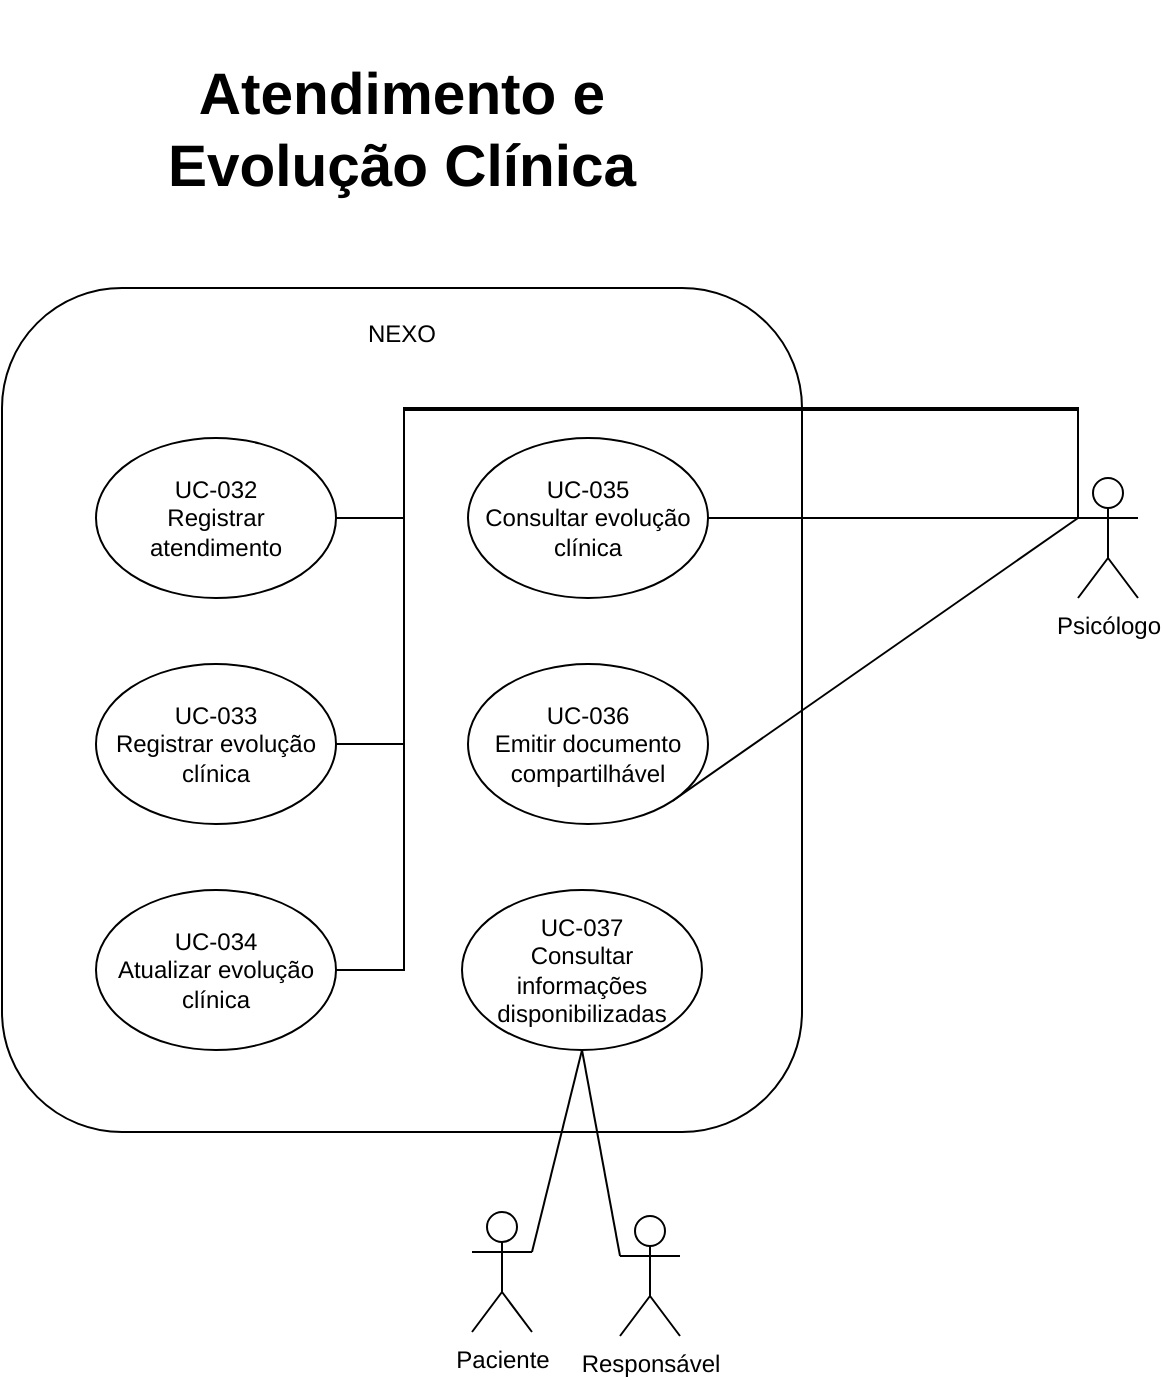
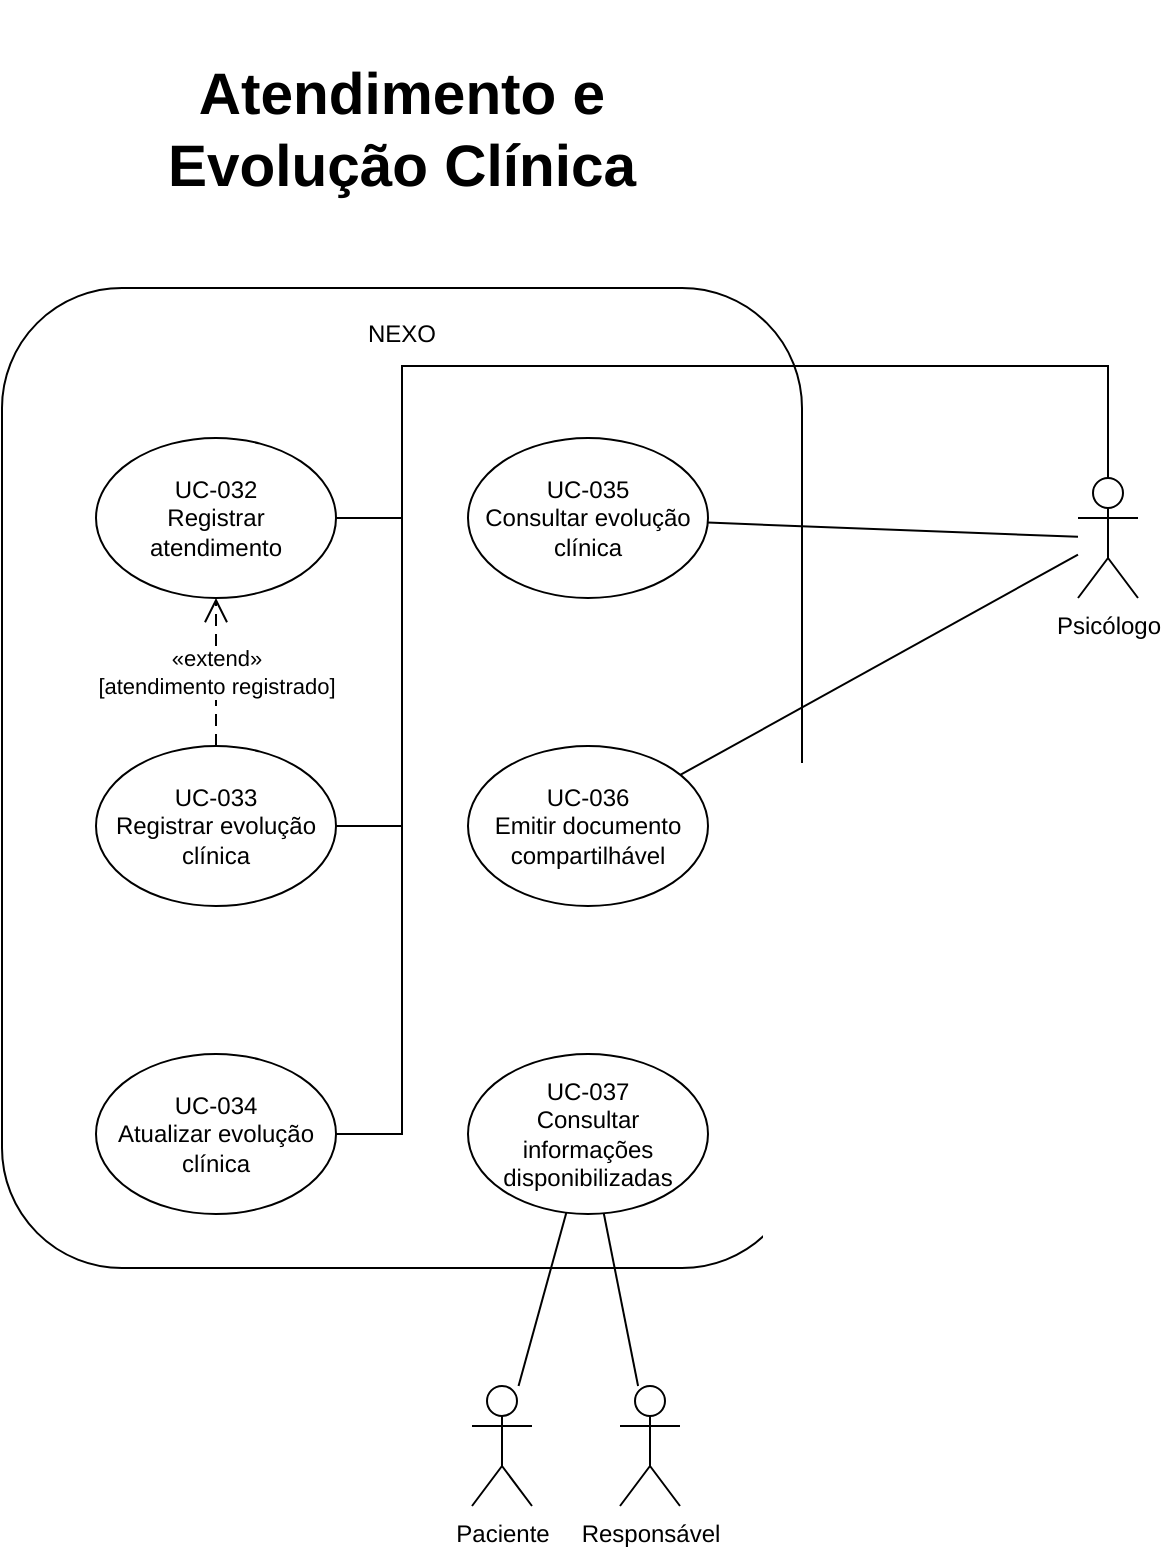
Atualiza diagramas de casos de uso e adiciona o módulo de Notificações
- Novos casos de uso UC-050 a UC-056 e o ator Agendador
- Relações «include» e «extend» nos diagramas 03, 05, 06 e 09
- Diagrama 11 (Notificações) e correção da imagem do diagrama 04
- README com o módulo 11 e a nova contagem de casos de uso

diff --git a/README.md b/README.md
@@ -17,8 +17,8 @@ nexo-modelagem-av3/
 └── diagramas/
     ├── contexto/                            # fronteira do sistema e atores externos
     │   └── diagrama-de-contexto.drawio      # arquivo editável
-    ├── casos-de-uso/                        # um diagrama por módulo (01 a 10)
-    │   └── diagramas-casos-de-uso.drawio    # arquivo editável com os 10 diagramas
+    ├── casos-de-uso/                        # um diagrama por módulo (01 a 11)
+    │   └── diagramas-casos-de-uso.drawio    # arquivo editável com os 11 diagramas
     ├── classes/                             # um diagrama de classes por área (01 a 09)
     │   └── diagramas-classes.drawio         # arquivo editável com os 9 diagramas
     └── objetos/                             # instâncias de um cenário (UC-027)
@@ -37,7 +37,7 @@ Os diagramas ficam exportados em `.png` para leitura rápida. Cada pasta tem um 
 
 ## 🧩 Módulos
 
-Os 49 casos de uso estão divididos em 10 módulos. Cada um tem um diagrama próprio:
+Os 56 casos de uso estão divididos em 11 módulos. Cada um tem um diagrama próprio. Os casos de uso automáticos (UC-050 a UC-054) são executados pelo ator **Agendador**, um processo da plataforma que roda em horários definidos.
 
 | # | Módulo | Imagem | Arquivo editável |
 |:-:|--------|:------:|:----------------:|
@@ -51,6 +51,7 @@ Os 49 casos de uso estão divididos em 10 módulos. Cada um tem um diagrama pró
 | 08 | Financeiro e Pagamentos | [ver](diagramas/casos-de-uso/08-financeiro-e-pagamentos.png) | [abrir](<https://viewer.diagrams.net/?lightbox=1&highlight=0000ff&layers=1&nav=1&title=diagramas-casos-de-uso.drawio&page-id=7p_f6k52_ZvSWfSv3xck#Uhttps%3A%2F%2Fraw.githubusercontent.com%2Fdevcaline%2Fnexo-modelagem-av3%2Fmain%2Fdiagramas%2Fcasos-de-uso%2Fdiagramas-casos-de-uso.drawio>) |
 | 09 | Lista de Espera e Encaixes | [ver](diagramas/casos-de-uso/09-lista-de-espera-e-encaixes.png) | [abrir](<https://viewer.diagrams.net/?lightbox=1&highlight=0000ff&layers=1&nav=1&title=diagramas-casos-de-uso.drawio&page-id=WWKL9XNSHv-sA6mnodhM#Uhttps%3A%2F%2Fraw.githubusercontent.com%2Fdevcaline%2Fnexo-modelagem-av3%2Fmain%2Fdiagramas%2Fcasos-de-uso%2Fdiagramas-casos-de-uso.drawio>) |
 | 10 | Compartilhamento de Documentos | [ver](diagramas/casos-de-uso/10-compartilhamento-de-documentos.png) | [abrir](<https://viewer.diagrams.net/?lightbox=1&highlight=0000ff&layers=1&nav=1&title=diagramas-casos-de-uso.drawio&page-id=msohQ2KOXuRciw_aY0eF#Uhttps%3A%2F%2Fraw.githubusercontent.com%2Fdevcaline%2Fnexo-modelagem-av3%2Fmain%2Fdiagramas%2Fcasos-de-uso%2Fdiagramas-casos-de-uso.drawio>) |
+| 11 | Notificações | [ver](diagramas/casos-de-uso/11-notificacoes.png) | [abrir](<https://viewer.diagrams.net/?lightbox=1&highlight=0000ff&layers=1&nav=1&title=diagramas-casos-de-uso.drawio&page-id=uc-notificacoes#Uhttps%3A%2F%2Fraw.githubusercontent.com%2Fdevcaline%2Fnexo-modelagem-av3%2Fmain%2Fdiagramas%2Fcasos-de-uso%2Fdiagramas-casos-de-uso.drawio>) |
 
 ## 🧱 Diagramas de classes
 
@@ -82,7 +83,7 @@ Os arquivos-fonte dos diagramas podem ser abertos no navegador, sem instalar nad
 
 **[🔗 Abrir o diagrama de contexto no draw.io (somente visualização)](<https://viewer.diagrams.net/?lightbox=1&highlight=0000ff&layers=1&nav=1&title=diagrama-de-contexto.drawio#Uhttps%3A%2F%2Fraw.githubusercontent.com%2Fdevcaline%2Fnexo-modelagem-av3%2Fmain%2Fdiagramas%2Fcontexto%2Fdiagrama-de-contexto.drawio>)** · [ver imagem](diagramas/contexto/diagrama-de-contexto.png)
 
-**[🔗 Abrir os 10 diagramas de casos de uso no draw.io (somente visualização)](<https://viewer.diagrams.net/?lightbox=1&highlight=0000ff&layers=1&nav=1&title=diagramas-casos-de-uso.drawio#Uhttps%3A%2F%2Fraw.githubusercontent.com%2Fdevcaline%2Fnexo-modelagem-av3%2Fmain%2Fdiagramas%2Fcasos-de-uso%2Fdiagramas-casos-de-uso.drawio>)**
+**[🔗 Abrir os 11 diagramas de casos de uso no draw.io (somente visualização)](<https://viewer.diagrams.net/?lightbox=1&highlight=0000ff&layers=1&nav=1&title=diagramas-casos-de-uso.drawio#Uhttps%3A%2F%2Fraw.githubusercontent.com%2Fdevcaline%2Fnexo-modelagem-av3%2Fmain%2Fdiagramas%2Fcasos-de-uso%2Fdiagramas-casos-de-uso.drawio>)**
 
 **[🔗 Abrir os 9 diagramas de classes no draw.io (somente visualização)](<https://viewer.diagrams.net/?lightbox=1&highlight=0000ff&layers=1&nav=1&title=diagramas-classes.drawio#Uhttps%3A%2F%2Fraw.githubusercontent.com%2Fdevcaline%2Fnexo-modelagem-av3%2Fmain%2Fdiagramas%2Fclasses%2Fdiagramas-classes.drawio>)**
 
